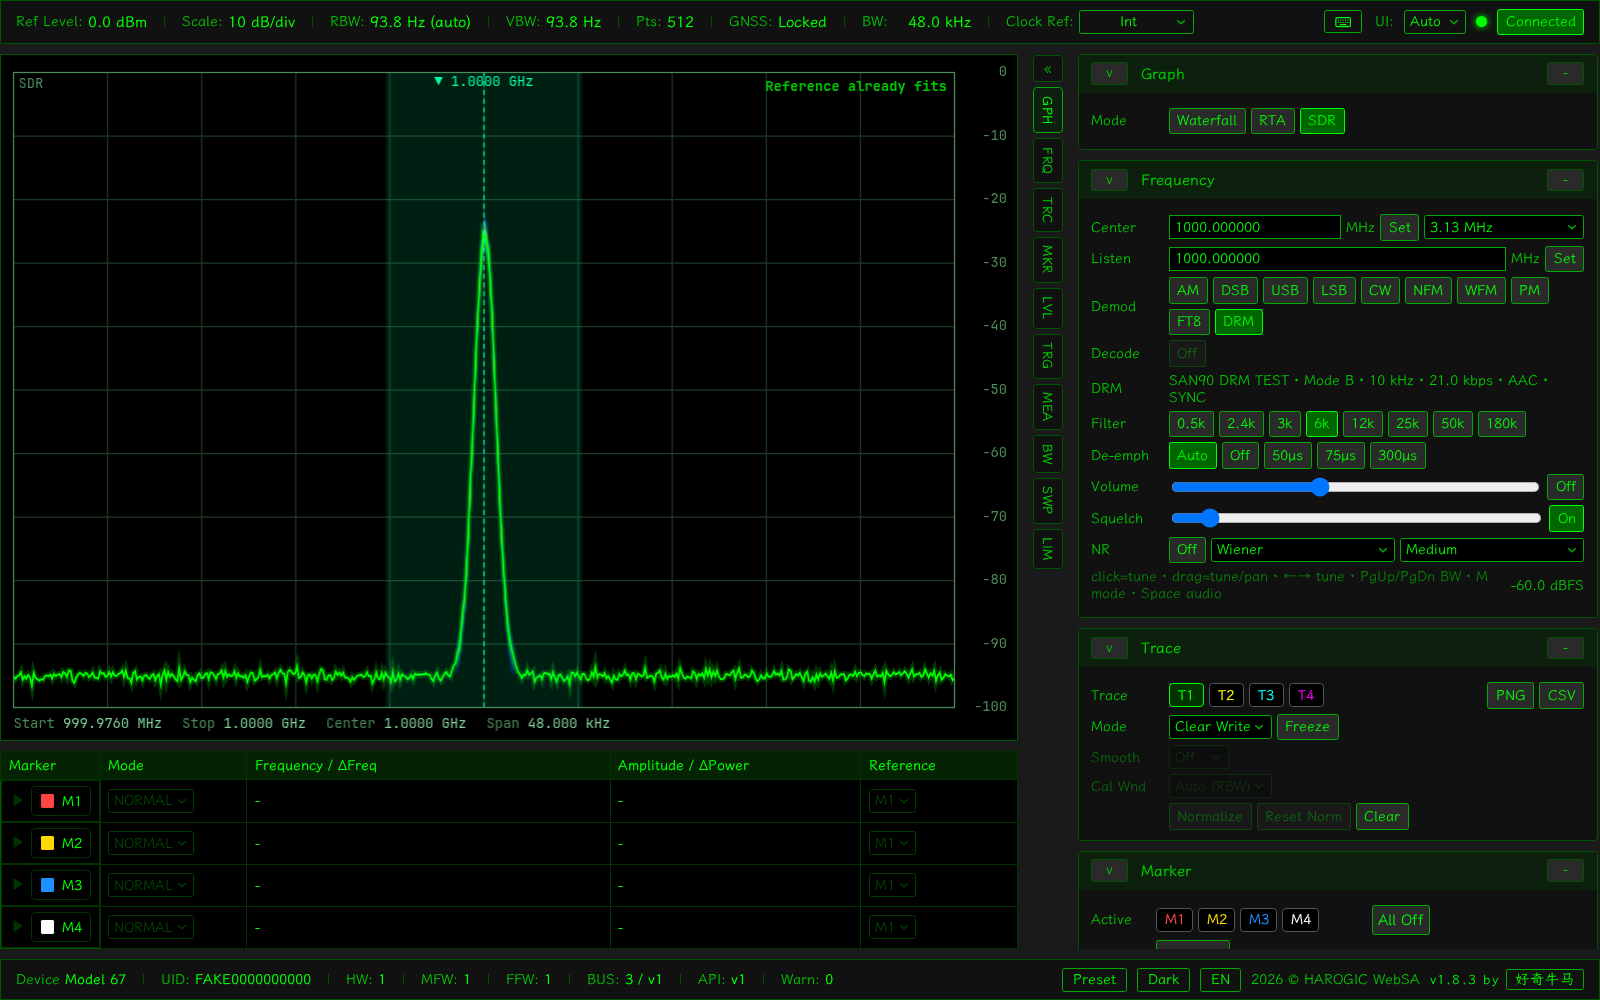
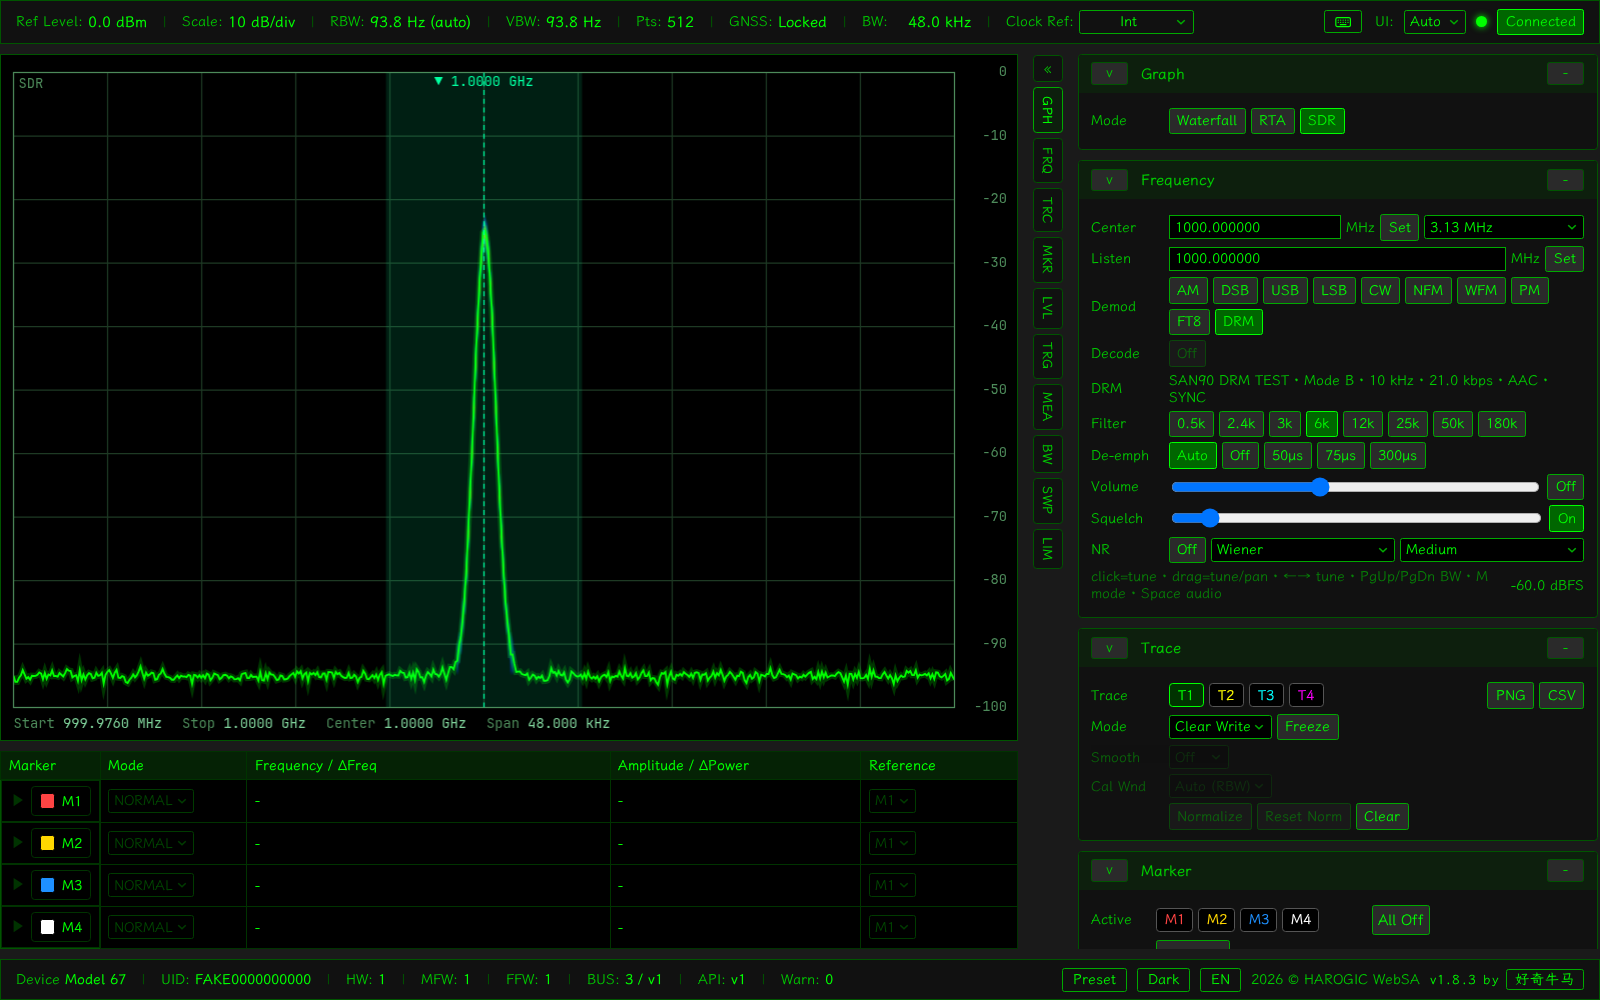
docs(drm-dream): DRM-via-Dream usage, isolation and verification (en/zh-CN)

Changed region(s): [[0.3125, 0.651, 0.5938, 0.713], [0.0, 0.651, 0.2812, 0.713], [0.4688, 0.062, 0.5938, 0.093]]

diff --git a/docs/en/DRM_DREAM.md b/docs/en/DRM_DREAM.md
@@ -1,0 +1,76 @@
+# DRM via Dream (background decoder)
+
+This page documents the DRM receive mode that runs the **external Dream receiver** as a
+background process and pipes the SDR pipeline's channelized baseband into it. It is the
+"use the existing decoder" path; the Rust/WASM reimplementation on `feature/drm-demod` is a
+separate, independent effort and is not touched by this work.
+
+## Isolation
+
+The work lives in its own worktree/branch and never shares ports or IPC with the other pi
+worktree (`/home/hui/git/harogic-websa`, branch `feature/drm-demod`, which owns 8080/8099).
+
+- Branch: `feature/drm-dream-decoder` (cut from `master`).
+- Worktree: `/home/hui/git/harogic-websa-drm-dream`.
+- Web service port: `WEBSA_PORT=8180`; e2e/fake port: `WEBSA_FAKE_PORT=8199`.
+- IPC: `/tmp/drm-dream-*` (status socket, sinks), namespaced by PID at runtime.
+- `tools/drm_dream/env.sh` is the single place these are declared; source it before running.
+
+## Decoder binary
+
+Dream's `--status-socket` (the newline-delimited JSON status stream this integration reads) is
+**not** in the packaged binaries:
+
+| Binary | Build | `--status-socket` |
+| --- | --- | --- |
+| `dream-nox` 2.2.4 (AUR) | wwek fork, `CONFIG+=qtconsole` | absent (not compiled) |
+| `dream` 2.3 (AUR) | upstream `Drm-tools/dream`, CMake `USE_QT=ON` | absent |
+
+The vendored console build of the wwek fork (`qmake CONFIG+=console`) is the only one that
+starts `CStatusBroadcast`. Build it into the worktree (git-ignored):
+
+```
+tools/drm_dream/build_dream.sh          # -> tools/drm_dream/build/dream
+```
+
+`DRM_DREAM_BIN` overrides the path; otherwise `web_sa/measurements/sdr.py` uses the worktree
+build.
+
+## Data path
+
+```
+SDR DDC (i, q, ddc.fs_out ~= 48 kHz)
+  -> low-pass -> linear resample to 48 kHz -> DreamDecoder.feed()
+  -> pacat --raw -> private null sink -> dream -I <sink>.monitor -c 6 --sigsrate 48000
+       |- --status-socket -> newline-delimited JSON -> state.sdr_drm
+       `- -O <audio sink> -> parec -> mono int16 -> AUDF frames
+```
+
+Audio is captured live from a second private null sink with `parec`. Dream's own
+`-w/--writewav` was not usable (the file stayed at 0 bytes while the receiver decoded).
+
+## Selecting it
+
+Pick `DRM` in the SDR panel's demodulator group (the mode is a backend/server mode, so it has
+no browser kernel). While it is selected, `STATUS.sdr.drm` carries the decoded metadata and the
+DRM readout shows station, robustness mode, bandwidth, bitrate, codec and sync. Audio plays
+through the normal SDR audio switch.
+
+## Verification
+
+```
+source tools/drm_dream/env.sh
+python3 tools/drm_dream/probe_fixture.py          # fixture -> Dream metadata vs manifest
+python3 tools/drm_dream/loopback_probe.py         # same over the null-sink loopback
+python3 -m pytest tests/test_drm_dream*.py tests/test_drm_state.py -q
+DRM_DREAM_AUDIO_FIXTURE=/path/to/real.rec python3 -m pytest tests/test_drm_dream_audio.py -q
+WEBSA_FAKE=1 WEBSA_PORT=8180 python3 -m web_sa.supervisor &   # then:
+python3 tools/e2e/drm_mode.py --url http://127.0.0.1:8180
+```
+
+## Known limitations
+
+The synthetic `tests/fixtures/drm/drm_modeB_so3_48k.f32` fixture (from `feature/drm-demod`)
+decodes **metadata** correctly, but Dream reports its MSC frames as `CRC_ERROR` and rejects the
+audio: a DecDRM-transmitter <-> Dream interop difference, not a build problem. Audio capture is
+therefore verified against a real recording. A real DRM broadcast decodes audio without changes.

diff --git a/docs/zh-CN/DRM_DREAM.md b/docs/zh-CN/DRM_DREAM.md
@@ -1,0 +1,70 @@
+# 通过 Dream 解码 DRM（后台解码器）
+
+本页说明 DRM 接收模式：把**外部 Dream 接收机**作为后台进程运行，并将 SDR 管线的信道化复基带送入其中。
+这是"复用现成解码器"的路线；`feature/drm-demod` 上的 Rust/WASM 重写是另一条独立工作，本工作不影响它。
+
+## 隔离
+
+本工作在自己的 worktree/分支中进行，绝不与另一个 pi 的 worktree
+（`/home/hui/git/harogic-websa`，分支 `feature/drm-demod`，占用 8080/8099）共享端口或 IPC。
+
+- 分支：`feature/drm-dream-decoder`（基于 `master`）。
+- worktree：`/home/hui/git/harogic-websa-drm-dream`。
+- Web 服务端口：`WEBSA_PORT=8180`；e2e/fake 端口：`WEBSA_FAKE_PORT=8199`。
+- IPC：`/tmp/drm-dream-*`（状态套接字、sink），运行时按 PID 命名空间隔离。
+- `tools/drm_dream/env.sh` 是这些约定的唯一定义处；运行前先 source 它。
+
+## 解码器二进制
+
+Dream 的 `--status-socket`（本集成所读取的按行 JSON 状态流）**不在**任何打包二进制中：
+
+| 二进制 | 构建方式 | `--status-socket` |
+| --- | --- | --- |
+| `dream-nox` 2.2.4（AUR） | wwek fork，`CONFIG+=qtconsole` | 缺失（未编译进去） |
+| `dream` 2.3（AUR） | 上游 `Drm-tools/dream`，CMake `USE_QT=ON` | 缺失 |
+
+只有 wwek fork 的 console 构建（`qmake CONFIG+=console`）会启动 `CStatusBroadcast`。把它构建到
+worktree 内（已被 git 忽略）：
+
+```
+tools/drm_dream/build_dream.sh          # -> tools/drm_dream/build/dream
+```
+
+可用 `DRM_DREAM_BIN` 覆盖路径；否则 `web_sa/measurements/sdr.py` 使用 worktree 内的构建。
+
+## 数据路径
+
+```
+SDR DDC (i, q, ddc.fs_out ~= 48 kHz)
+  -> 低通 -> 线性重采样到 48 kHz -> DreamDecoder.feed()
+  -> pacat --raw -> 私有 null sink -> dream -I <sink>.monitor -c 6 --sigsrate 48000
+       |- --status-socket -> 按行 JSON -> state.sdr_drm
+       `- -O <audio sink> -> parec -> 单声道 int16 -> AUDF 帧
+```
+
+音频通过第二个私有 null sink 用 `parec` 实时采集。Dream 自带的 `-w/--writewav` 不可用
+（接收机在解码时该文件仍为 0 字节）。
+
+## 如何选择
+
+在 SDR 面板的解调器组中选择 `DRM`（该模式属于后端/服务端模式，浏览器没有对应内核）。选中期间，
+`STATUS.sdr.drm` 携带解码出的元数据，DRM 读数显示台名、鲁棒模式、带宽、码率、编码与同步状态。
+音频通过常规的 SDR 音频开关播放。
+
+## 验证
+
+```
+source tools/drm_dream/env.sh
+python3 tools/drm_dream/probe_fixture.py          # fixture -> Dream 元数据与 manifest 比对
+python3 tools/drm_dream/loopback_probe.py         # 同样的链路，经 null-sink 回环
+python3 -m pytest tests/test_drm_dream*.py tests/test_drm_state.py -q
+DRM_DREAM_AUDIO_FIXTURE=/path/to/real.rec python3 -m pytest tests/test_drm_dream_audio.py -q
+WEBSA_FAKE=1 WEBSA_PORT=8180 python3 -m web_sa.supervisor &   # 然后：
+python3 tools/e2e/drm_mode.py --url http://127.0.0.1:8180
+```
+
+## 已知限制
+
+合成 fixture `tests/fixtures/drm/drm_modeB_so3_48k.f32`（来自 `feature/drm-demod`）能正确解出**元数据**，
+但 Dream 将其 MSC 帧报告为 `CRC_ERROR` 并拒绝其音频：这是 DecDRM 发射机与 Dream 之间的互操作差异，
+而非构建问题。因此音频采集用真实录音验证。真实 DRM 广播无需改动即可解出音频。
